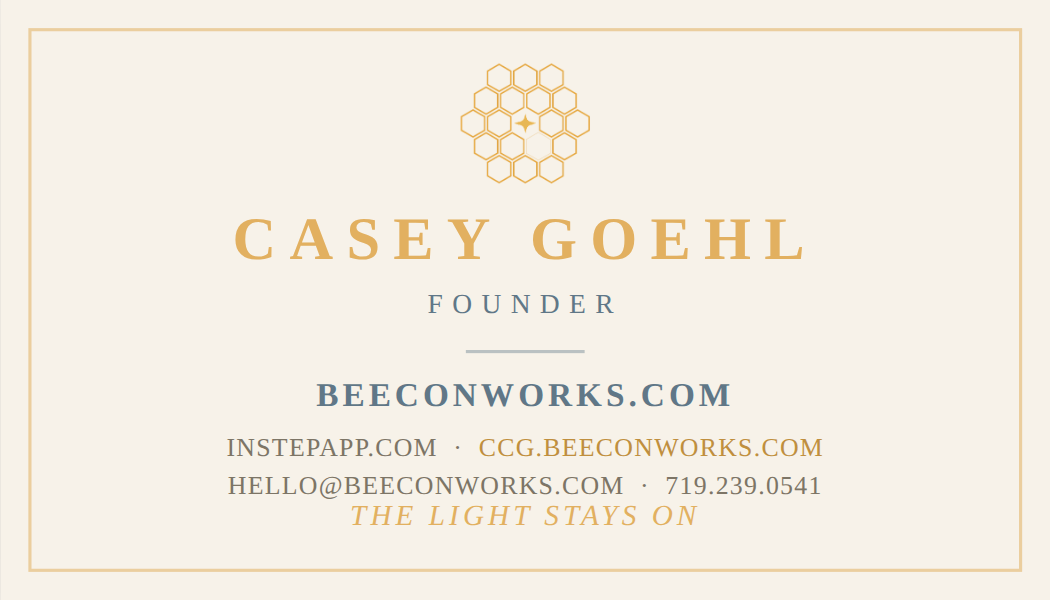
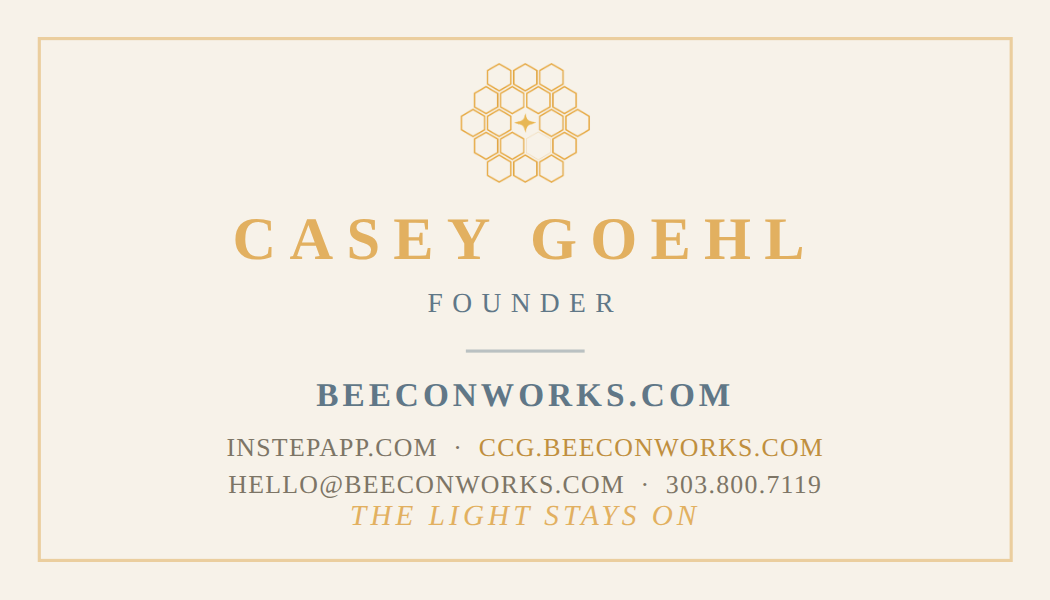
Update business card with verified phone number
Claude-Session: https://claude.ai/code/session_01Knc14jw4G6eYRoSf3nNTaq

diff --git a/ccg/casey-goehl-card-mockup.html b/ccg/casey-goehl-card-mockup.html
@@ -74,7 +74,7 @@
       <div class="primary-url">BeeconWorks.com</div>
       <div class="secondary">
         <div>InStepApp.com &nbsp;&middot;&nbsp; <span class="accent">CCG.BeeconWorks.com</span></div>
-        <div>Hello@BeeconWorks.com &nbsp;&middot;&nbsp; 719.239.0541</div>
+        <div>Hello@BeeconWorks.com &nbsp;&middot;&nbsp; 303.800.7119</div>
       </div>
       <div class="tagline">The light stays on</div>
     </div>
